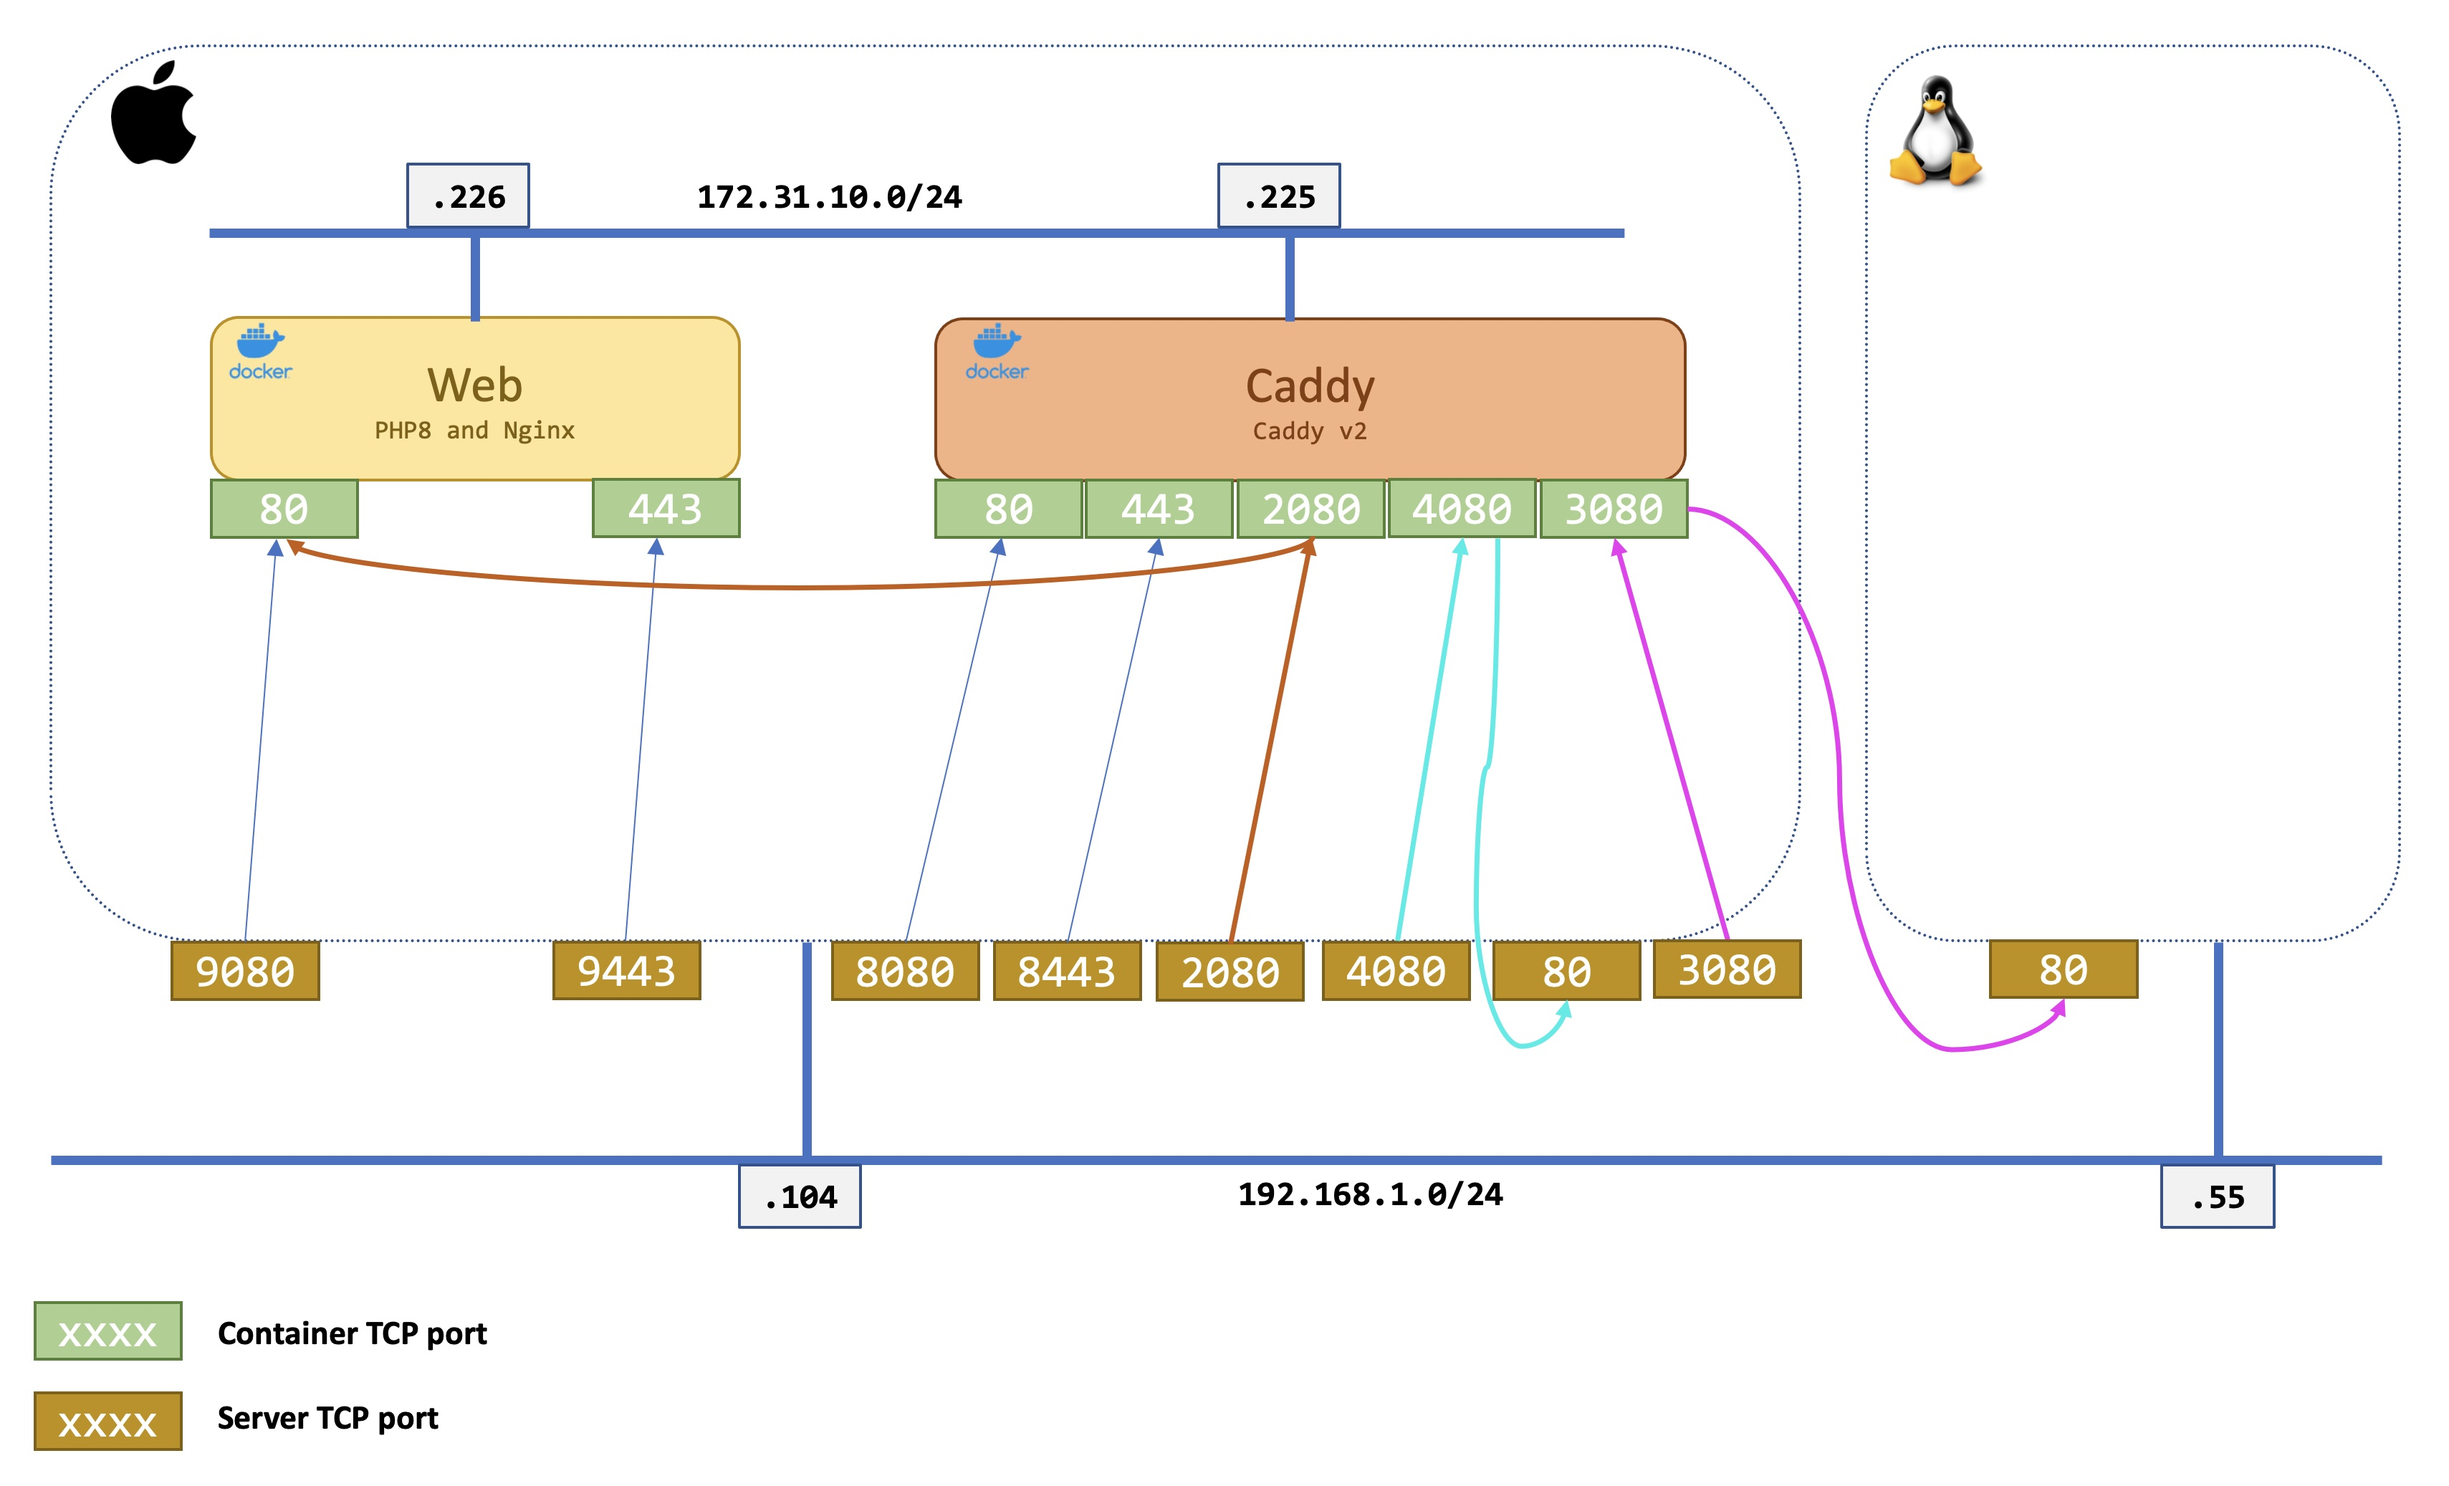
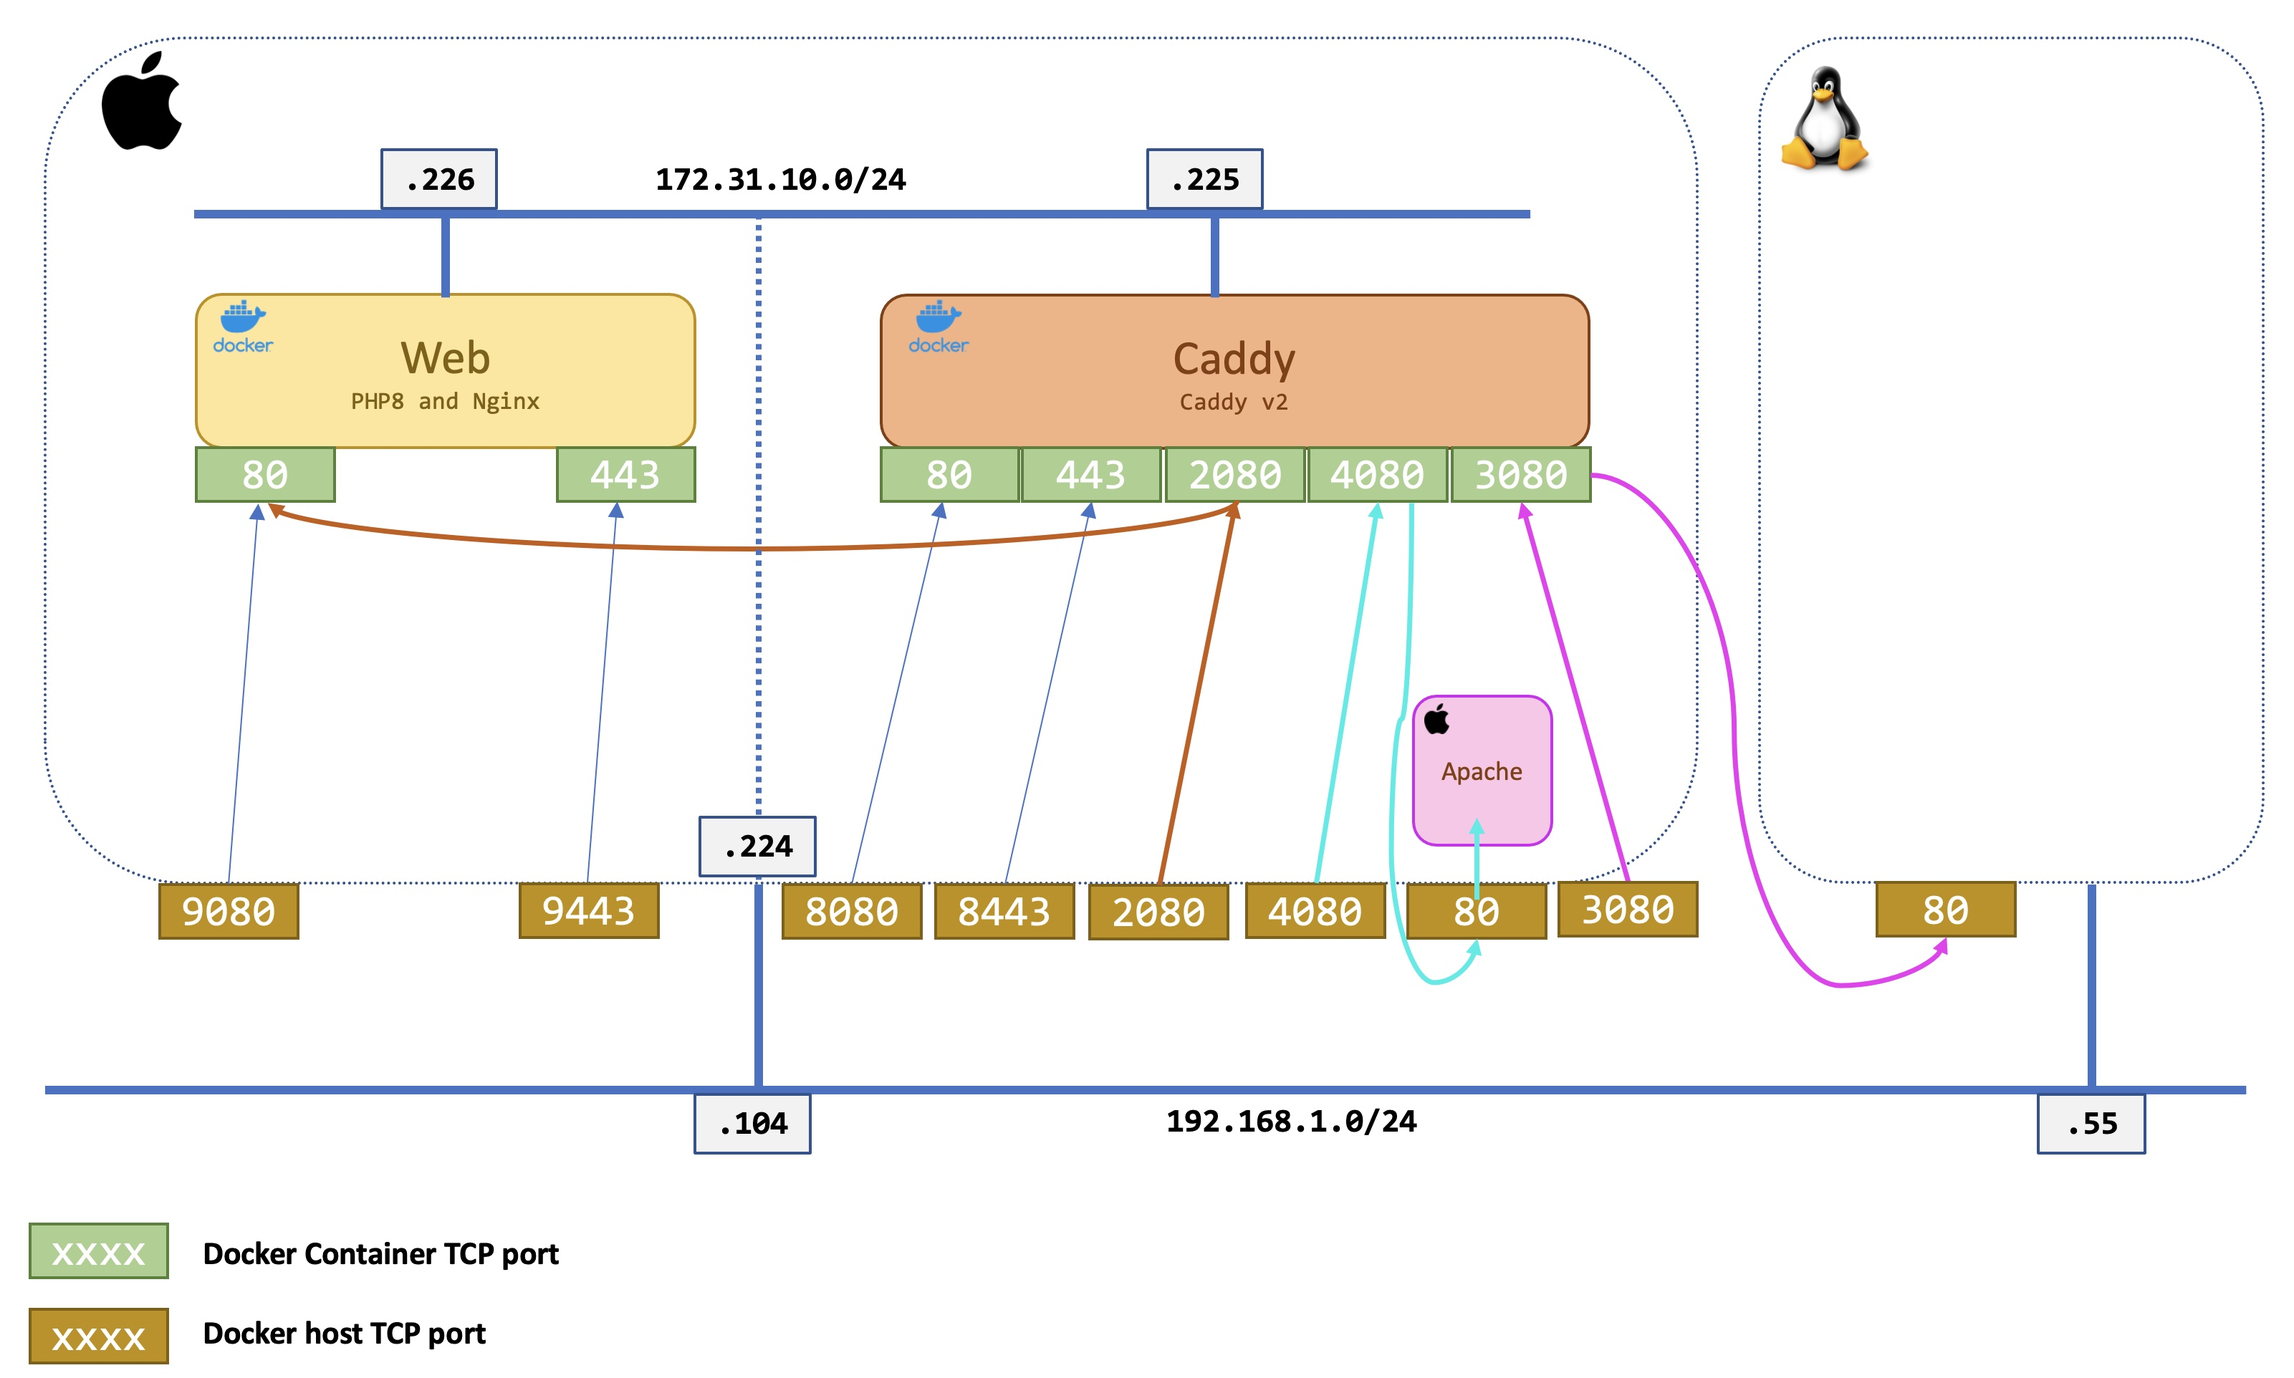
Initial commit

diff --git a/README.md b/README.md
@@ -102,11 +102,11 @@ I needed a container with a small web server. I used a container that I had buil
 ![Diagram](images/design.jpg)
 
 - I run a Docker container called **web** for a simple web server.
-  - It listens to `TCP/80` and `TCP/443`
+  - It listens on `TCP/80` and `TCP/443`
 - I run a Docker container called **caddy** for the reverse proxy.
-  - It listens to `TCP/80`, `TCP/443`, `TCP/2080`, `TCP/4080` and `TCP/3080`
-- I also run an external Apache web server on the Docker host.
-  - It listens to `TCP/80`
+  - It listens on `TCP/80`, `TCP/443`, `TCP/2080`, `TCP/4080` and `TCP/3080`
+- I also run an Apache web server on the Docker host which is a macOS.
+  - It listens on `TCP/80`
 
 ### Traffic flow
 This example is for educational purposes **ONLY**. It shows different scenarios where you want to use a reverse proxy.  
